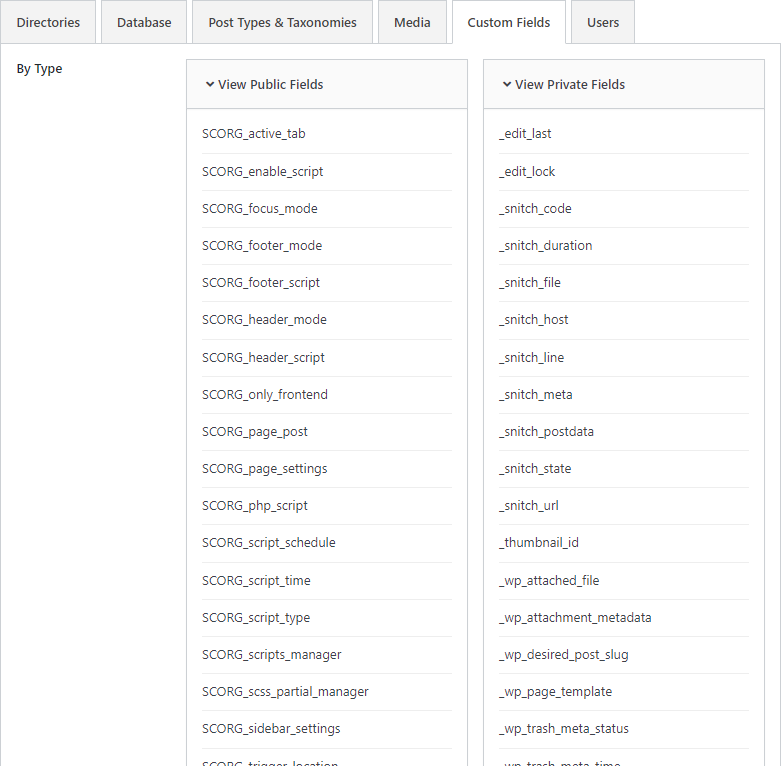
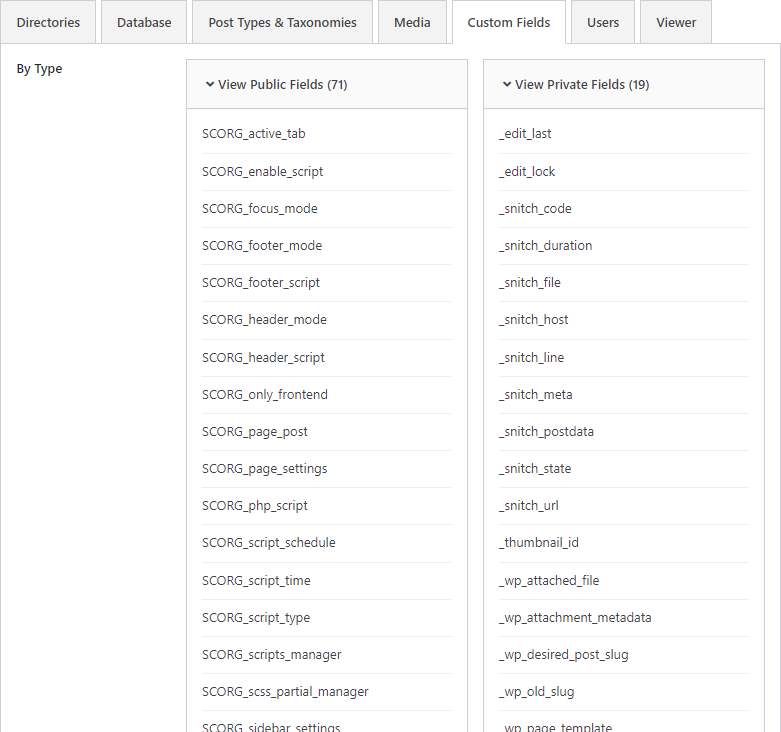
v 1.6.0 release

diff --git a/system-dashboard.php b/system-dashboard.php
@@ -16,7 +16,7 @@
  * Plugin Name:       System Dashboard
  * Plugin URI:        https://wordpress.org/plugins/system-dashboard/
  * Description:       Centralized dashboard to monitor various WordPress components, stats and data, including the server.
- * Version:           1.5.2
+ * Version:           1.6.0
  * Author:            Bowo
  * Author URI:        https://bowo.io
  * License:           GPL-2.0+
@@ -35,7 +35,7 @@ if ( ! defined( 'WPINC' ) ) {
  * Start at version 1.0.0 and use SemVer - https://semver.org
  * Rename this for your plugin and update it as you release new versions.
  */
-define( 'SYSTEM_DASHBOARD_VERSION', '1.5.2' );
+define( 'SYSTEM_DASHBOARD_VERSION', '1.6.0' );
 
 /**
  * The code that runs during plugin activation.

diff --git a/README.md b/README.md
@@ -78,8 +78,8 @@ This plugin provides a centralized dashboard to monitor various WordPress compon
 
 * Total number of options
 * Total number and size of autoloaded options
-* List of options from WordPress core with ID, autoload, size and type info
-* List of options from plugins and theme with ID, autoload, size and type info
+* Filterable list of options from WordPress core with ID, autoload, size and type info
+* Filterable list of options from plugins and theme with ID, autoload, size and type info
 * AJAX loading of option value with interactive tree viewer for array and object value types 
 
 #### Transients: 
@@ -97,7 +97,7 @@ This plugin provides a centralized dashboard to monitor various WordPress compon
 
 #### Hooks:
 
-* List of action and filter hooks from WordPress core with description, originating file path and link to WordPress Code Reference for each hook
+* Filterable list of action and filter hooks from WordPress core with description, originating file path and link to WordPress Code Reference for each hook
 * List of action and filter hooks from the active theme, with description, originating file path and link to file preview in the theme file editor
 * List of action and filter hooks from active plugins, with description, originating file path and link to file preview in the plugin file editor
 
@@ -109,7 +109,7 @@ This plugin provides a centralized dashboard to monitor various WordPress compon
 
 #### Functions:
 
-* List of functions from WordPress core with the originating file path and link to WordPress Code Reference for each function
+* Filterable list of functions from WordPress core with the originating file path and link to WordPress Code Reference for each function
 * List of functions from the active theme with the originating file path and link to preview the file in the theme file editor
 * List of functions from active plugins with the originating file path and link to preview the file in the plugin file editor
 
@@ -211,7 +211,14 @@ This plugin provides a centralized dashboard to monitor various WordPress compon
 
 System Dashboard was built with: [WordPress Plugin Boilerplate](https://github.com/devinvinson/WordPress-Plugin-Boilerplate/) | [wppb.me](https://wppb.me/) | [CodeStar framework](https://github.com/Codestar/codestar-framework)
 
-## Changelog
+## Changeog
+
+### 1.6.0 (March 2022)
+
+* Add search filter on the following modules: Options (core and non-core), Hooks (core), Functions (core)
+* Add counter for the following modules: Custom Fields (public and private), Functions (core, themes, plugins) 
+* Fix: output of custom id and classes for several HTML partials in sd_html()
+* Fix: miscellaneous CSS styling
 
 ### 1.5.2 (March 2022)
 
